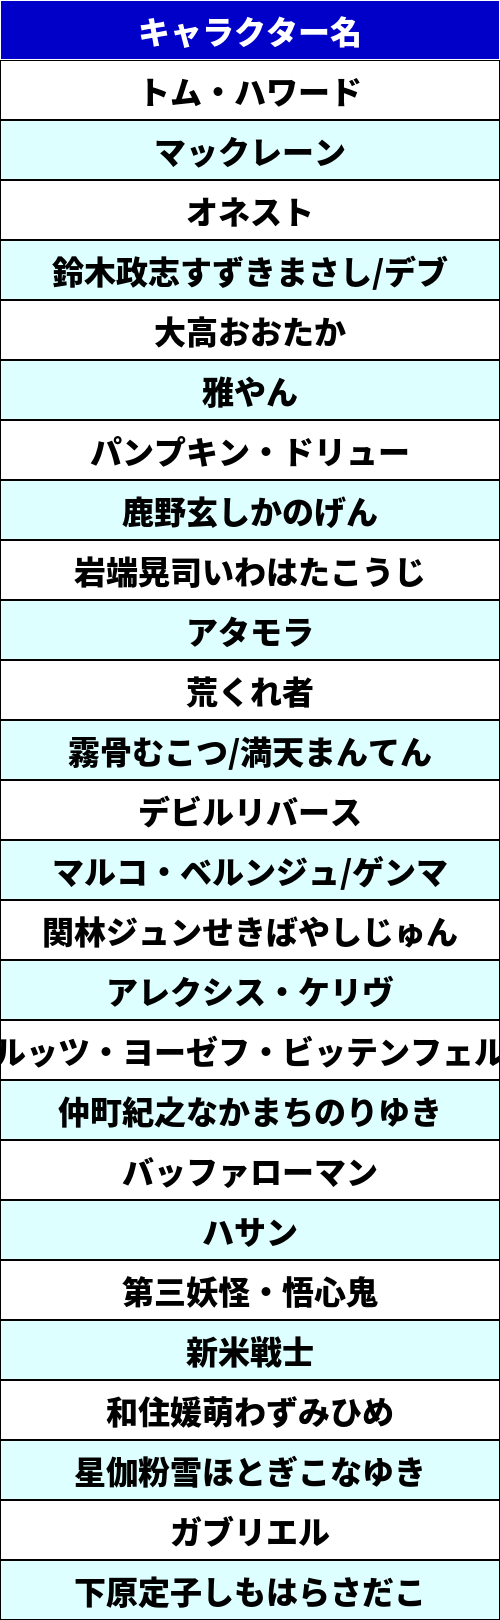
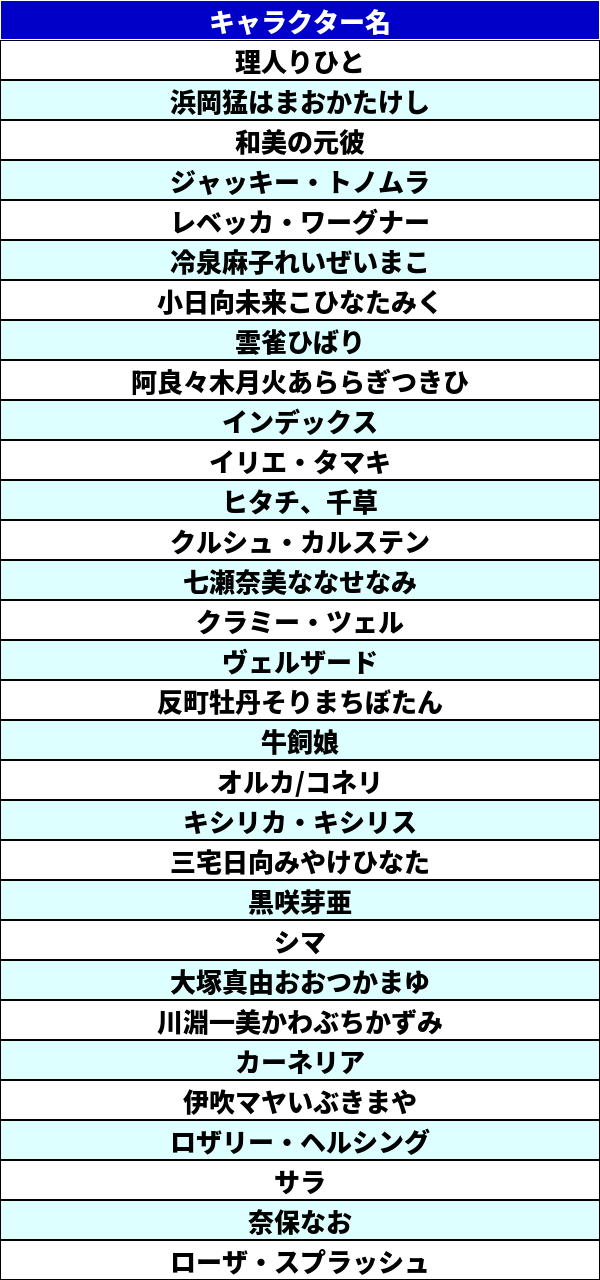
文字はみだしを修正

diff --git a/src/slochan_post_twitter_tomorrow_birthday.py b/src/slochan_post_twitter_tomorrow_birthday.py
@@ -46,7 +46,7 @@ def post_line_image_and_text(message,image_path,line_token):
 
 
 today = datetime.date.today()
-tomorrow = today + datetime.timedelta(days=0)
+tomorrow = today + datetime.timedelta(days=1)
 url = f'https://sulocale.sulopachinews.com/archives/%E3%82%A4%E3%83%99%E3%83%B3%E3%83%88/{tomorrow.strftime("%m%d")}'
 print(url)
 birthday_dfs = pd.read_html(url)
@@ -123,7 +123,7 @@ def get_concat_v_multi_resize(im_list, resample=Image.BICUBIC):
 def create_charactor_anime_cell_image(_df,image_name):
     global create_df_cell_image_path
     width_concat_lists = []
-    font = ImageFont.truetype('font/NotoSansJP-Black.otf', 20)
+    #font = ImageFont.truetype('font/NotoSansJP-Black.otf', 20)
     df_columns_list = list(_df.columns)
     cell_height = 40
     for column_number in range(len(_df.columns)):
@@ -131,25 +131,30 @@ def create_charactor_anime_cell_image(_df,image_name):
         #print(column_number)
         #print(df_columns_list[column_number])
         if df_columns_list[column_number] == 'キャラクター名':
-            
-            cell_width = 500
+            font = ImageFont.truetype('font/NotoSansJP-Black.otf', 26)
+            cell_width = 600
+            cell_height = 40
         elif df_columns_list[column_number] == '登場作品':
-            cell_width = 500
+            font = ImageFont.truetype('font/NotoSansJP-Black.otf', 26)
+            cell_width = 600
+            cell_height = 40
+
         elif df_columns_list[column_number] == '声優':
             font = ImageFont.truetype('font/NotoSansJP-Black.otf', 38)
-            cell_width = 500
-            cell_height = 60
+            cell_width = 600
+            cell_height = 50
         elif df_columns_list[column_number] == '何の日？':
-            font = ImageFont.truetype('font/NotoSansJP-Black.otf', 13)
+            font = ImageFont.truetype('font/NotoSansJP-Black.otf', 20)
             cell_width = 500
             cell_height = 60
         elif df_columns_list[column_number] == '日付':
-            cell_width = 100
+            cell_width = 120
             cell_height = 60
+            font = ImageFont.truetype('font/NotoSansJP-Black.otf', 20)
         else:
             cell_width = 300
             font = ImageFont.truetype('font/NotoSansJP-Black.otf', 20)
-            cell_height = 40
+            cell_height = 60
         #print(cell_width,cell_height)
         im = Image.new('RGB', (cell_width, cell_height), (0, 0, 200))  # イメージオブジェクトの生成(黒のベタ画像)
         draw = ImageDraw.Draw(im)  # Drawオブジェクトを生成  
@@ -164,41 +169,52 @@ def create_charactor_anime_cell_image(_df,image_name):
         seiyuu_count = 1
         for index_number ,(i,record) in enumerate(_df.iterrows()):
             #print('df_columns_list[column_number]',df_columns_list[column_number])
+            
             if index_number == 0 and df_columns_list[column_number] == '声優':
-                name = f'{record[column_number]}'
-                continue
-            if df_columns_list[column_number] == '声優':
-                print('name',name)
-                if seiyuu_count % 2 != 0:
+                if len(_df) != 1:
+                    name = f'{record[column_number]}'
+                    continue
+                else:
+                    name = f'{record[column_number]}'
                     im = Image.new('RGB', (cell_width, (count*cell_height)), (255, 255, 255))
                     draw = ImageDraw.Draw(im) 
-                else:
-                    im = Image.new('RGB', (cell_width, (count*cell_height)), (221, 255, 255))
-                    draw = ImageDraw.Draw(im)
+                    w, h = im.size
+                    draw.multiline_text(((cell_width)/2,(count*cell_height)/2), f'{name[:15]}', fill=(0,0,0), font=font,anchor="mm",align ="center")
+                    draw.rectangle((0, 0, w-1, h-1), outline = (0,0,0))
+                    height_concat_lists.append(im)
+                    count = 1
+                    continue
+
+            if df_columns_list[column_number] == '声優':
+                print('name',name)
+
+                im = Image.new('RGB', (cell_width, (count*cell_height)), (255, 255, 255))
+                draw = ImageDraw.Draw(im) 
                 print('record[column_number',record[column_number])
                 font = ImageFont.truetype('font/NotoSansJP-Black.otf', 32)
-                seiyuu_count += 1
+
                 if name == f'{record[column_number]}':
                     print('同じ名前',count)
                     count += 1
                 else:
                     print('違う名前',count)
                     print((count*cell_height))
-
                     w, h = im.size
-                    draw.multiline_text(((cell_width)/2,(count*cell_height)/2), f'{name}', fill=(0,0,0), font=font,anchor="mm",align ="center")
+                    draw.multiline_text(((cell_width)/2,(count*cell_height)/2), f'{name[:15]}', fill=(0,0,0), font=font,anchor="mm",align ="center")
                     draw.rectangle((0, 0, w-1, h-1), outline = (0,0,0))
                     height_concat_lists.append(im)
                     count = 1
+                    
                 name = f'{record[column_number]}'
                 if index_number+1 == len(cv_birthday_df):
                     im = Image.new('RGB', (cell_width, (count*cell_height)), (255, 255, 255))
                     draw = ImageDraw.Draw(im) 
                     w, h = im.size
-                    draw.multiline_text(((cell_width)/2,(count*cell_height)/2), f'{name}', fill=(0,0,0), font=font,anchor="mm",align ="center")
+                    draw.multiline_text(((cell_width)/2,(count*cell_height)/2), f'{name[:15]}', fill=(0,0,0), font=font,anchor="mm",align ="center")
                     draw.rectangle((0, 0, w-1, h-1), outline = (0,0,0))
                     height_concat_lists.append(im)
                     count = 1
+                seiyuu_count += 1
             elif df_columns_list[column_number] == '何の日？':
                 im = Image.new('RGB', (cell_width, cell_height), (221, 255, 255)) 
                 draw = ImageDraw.Draw(im)  # Drawオブジェクトを生成  
@@ -211,9 +227,9 @@ def create_charactor_anime_cell_image(_df,image_name):
                     if i > 11:
                         break
                     if i % 4 == 0:
-                        output_text += '\n'+text + ','
+                        output_text += '\n'+ text + ' '
                     else:
-                        output_text += text + ','
+                        output_text += text + ' '
                 print(output_text)
                 draw.multiline_text((cell_width/2,cell_height/2), f'{output_text}', spacing= 0,fill=(0,0,0), font=font,anchor="mm",align ="center") 
                 w, h = im.size
@@ -226,8 +242,14 @@ def create_charactor_anime_cell_image(_df,image_name):
                 else:
                     im = Image.new('RGB', (cell_width, cell_height), (221, 255, 255))  # イメージオブジェクトの生成(黒のベタ画像)
                 draw = ImageDraw.Draw(im)  # Drawオブジェクトを生成  
+                name = record[column_number]
+                print
+                if 16 < len(name):
+                    name = name[:16] + '\n' + name[16:]
+                    font = ImageFont.truetype('font/NotoSansJP-Black.otf', 20)
                 
-                draw.multiline_text((cell_width/2,cell_height/2), f'{record[column_number]}', fill=(0,0,0), font=font,anchor="mm",align ="center") 
+
+                draw.multiline_text((cell_width/2,cell_height/2), f'{name}', fill=(0,0,0),spacing= -6, font=font,anchor="mm",align ="center") 
                 w, h = im.size
                 draw.rectangle((0, 0, w-1, h-1), outline = (0,0,0))
                 height_concat_lists.append(im)
